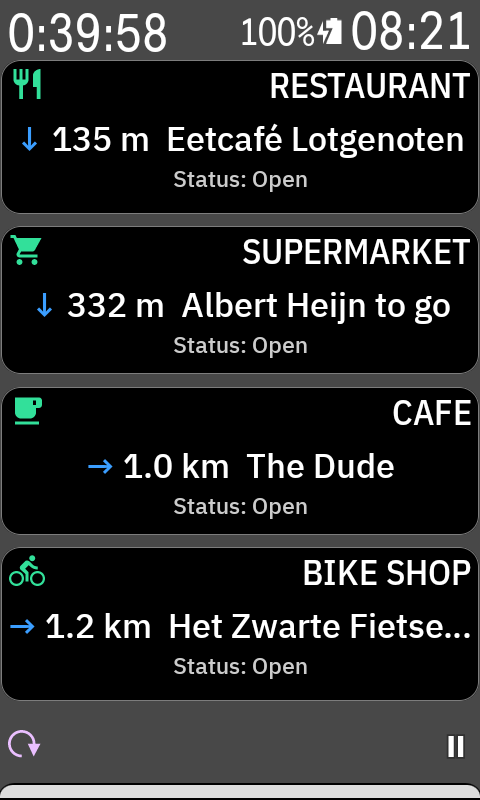
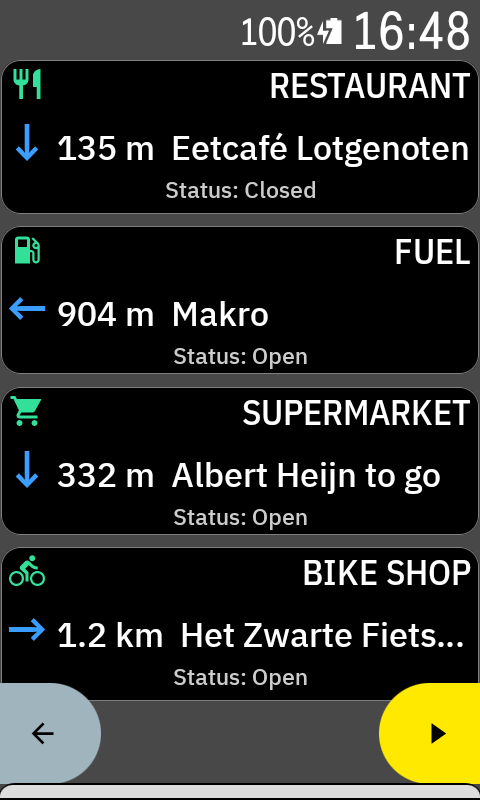
Add 1.3.1 release notes and refresh tile screenshot
- Document the three user-facing changes since 1.3.0: 20-minute
  periodic POI refresh, Waiting-for-Wi-Fi tile state with auto-retry
  on connectivity returning, and the larger left-aligned arrow with
  tighter padding from PR #164.
- Refresh docs/screenshot-karoo-tiles.png — the previous capture
  showed the old centered same-size arrow design. The new capture is
  the layout currently shipping, taken at Duivendrecht with heading
  north on a Karoo 2 indoor ride.

diff --git a/docs/release-notes.md b/docs/release-notes.md
@@ -2,6 +2,12 @@
 
 User-facing notes per `vX.Y.Z` release. The release workflow extracts the section matching the current tag and pipes it into the Karoo App Manifest as `releaseNotes`, where it appears in the Karoo extension About panel. Add a new `## X.Y.Z` section at the top before tagging.
 
+## 1.3.1
+
+- POIs now refresh every 20 minutes around your current location during a ride, so the cache follows you instead of staying tied to where the route started.
+- Tile shows Waiting for Wi-Fi when the device is offline and automatically retries as soon as Wi-Fi returns, instead of giving up after a few attempts.
+- Larger left-aligned blue direction arrow on each tile, with tighter padding so more of the POI name fits.
+
 ## 1.3.0
 
 - New Pitstop logo: a coffee mug with a drop-bar bicycle handlebar. Now visible next to "Pitstop" in the Karoo Extensions list.
